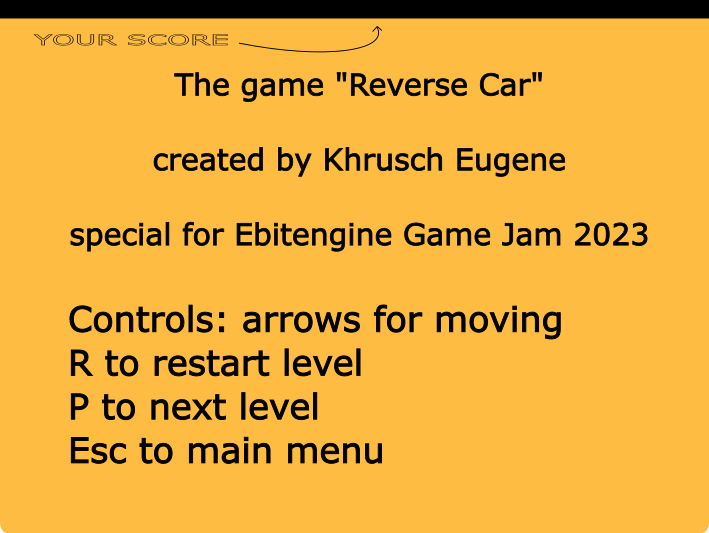
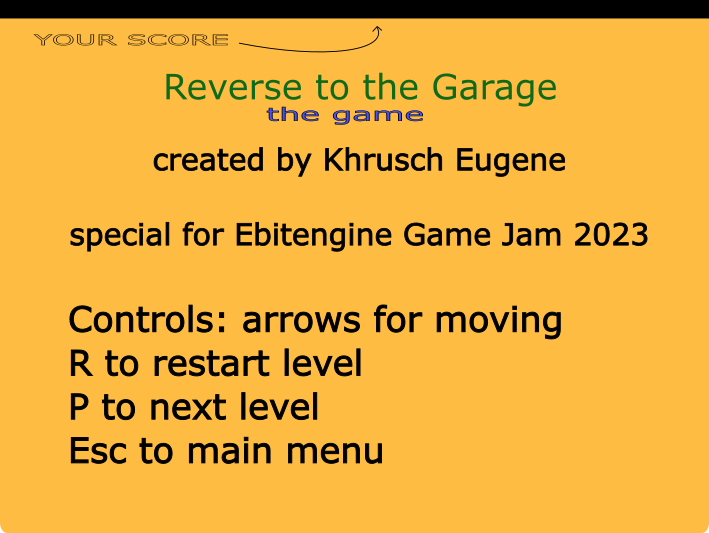
fix game name

Changed region(s): [[0.2172, 0.1201, 0.8068, 0.2402]]

diff --git a/game/game.go b/game/game.go
@@ -42,7 +42,7 @@ func NewGame() *Game {
 	}
 
 	g := &Game{
-		Name: "Reverse Car",
+		Name: "Reverse to the Garage",
 		WindowSize: framework.IntSize{
 			Width:  800,
 			Height: 600,
